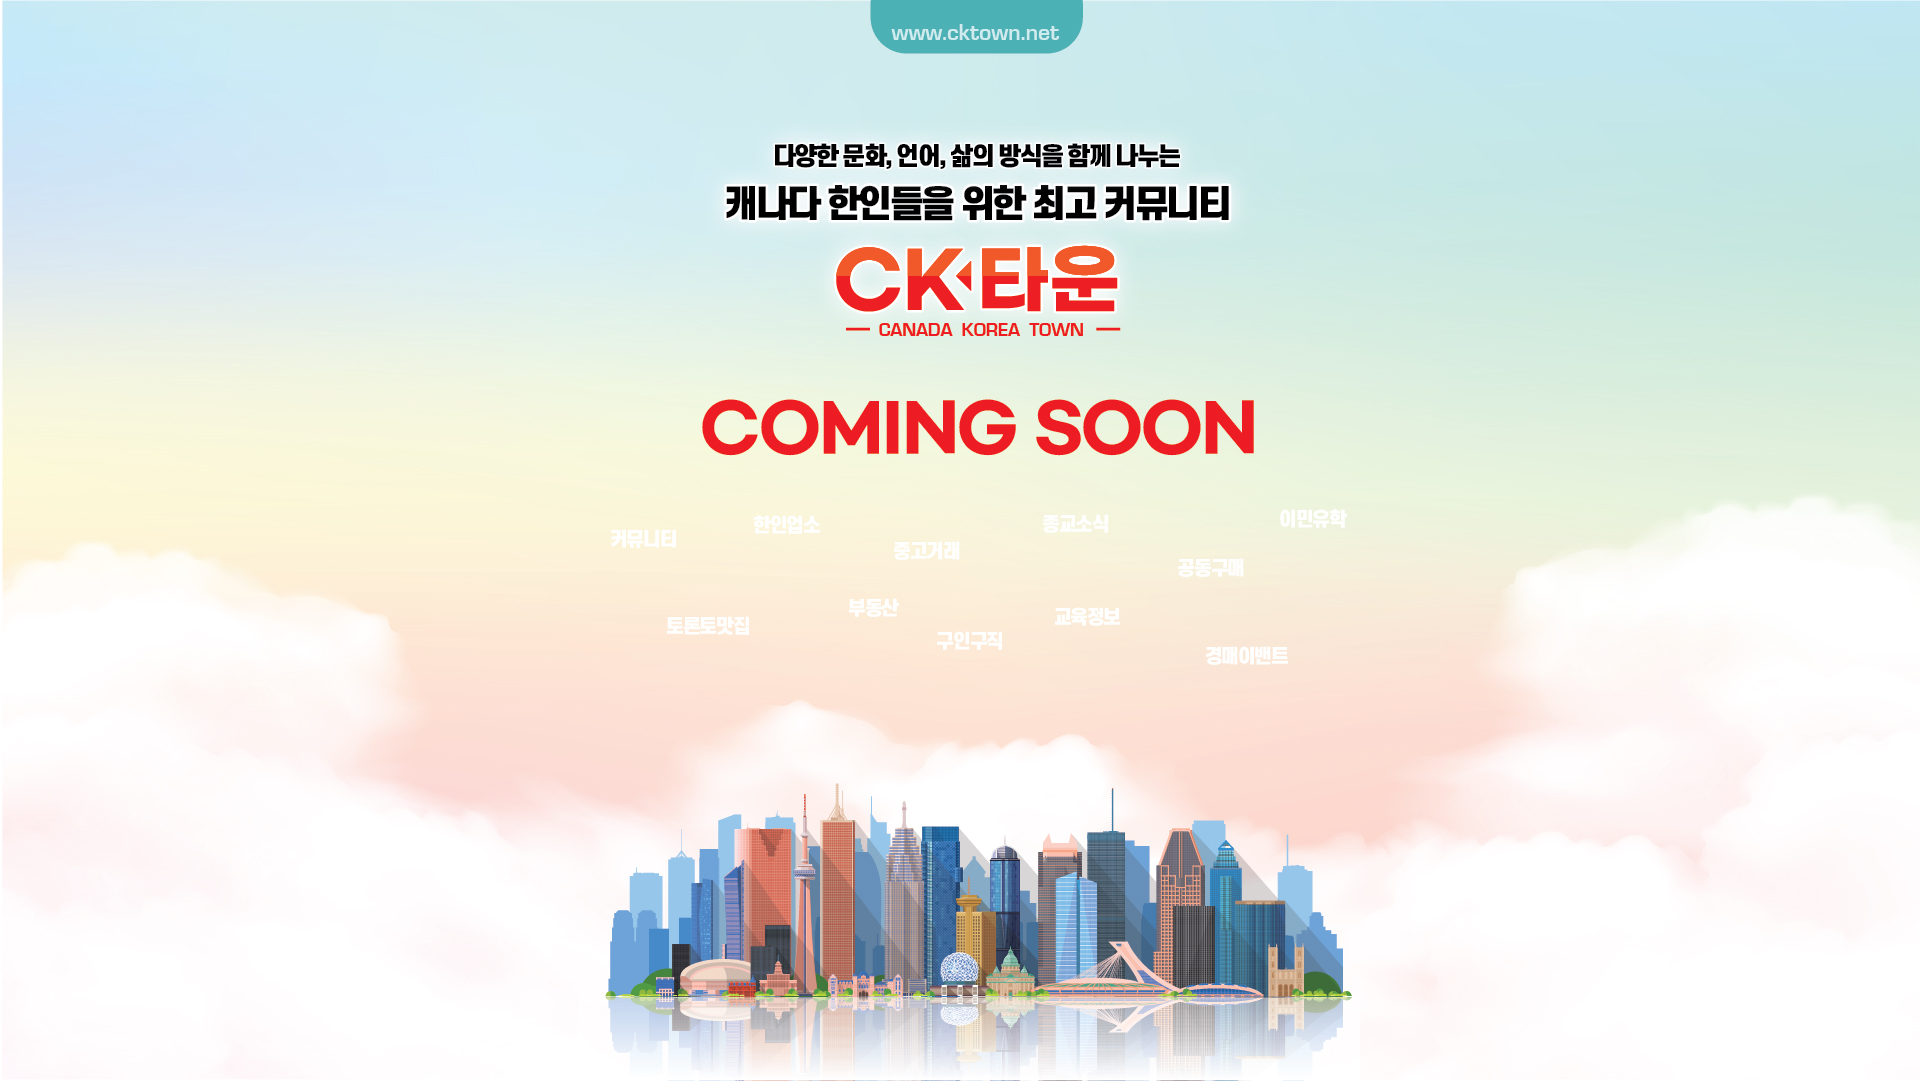
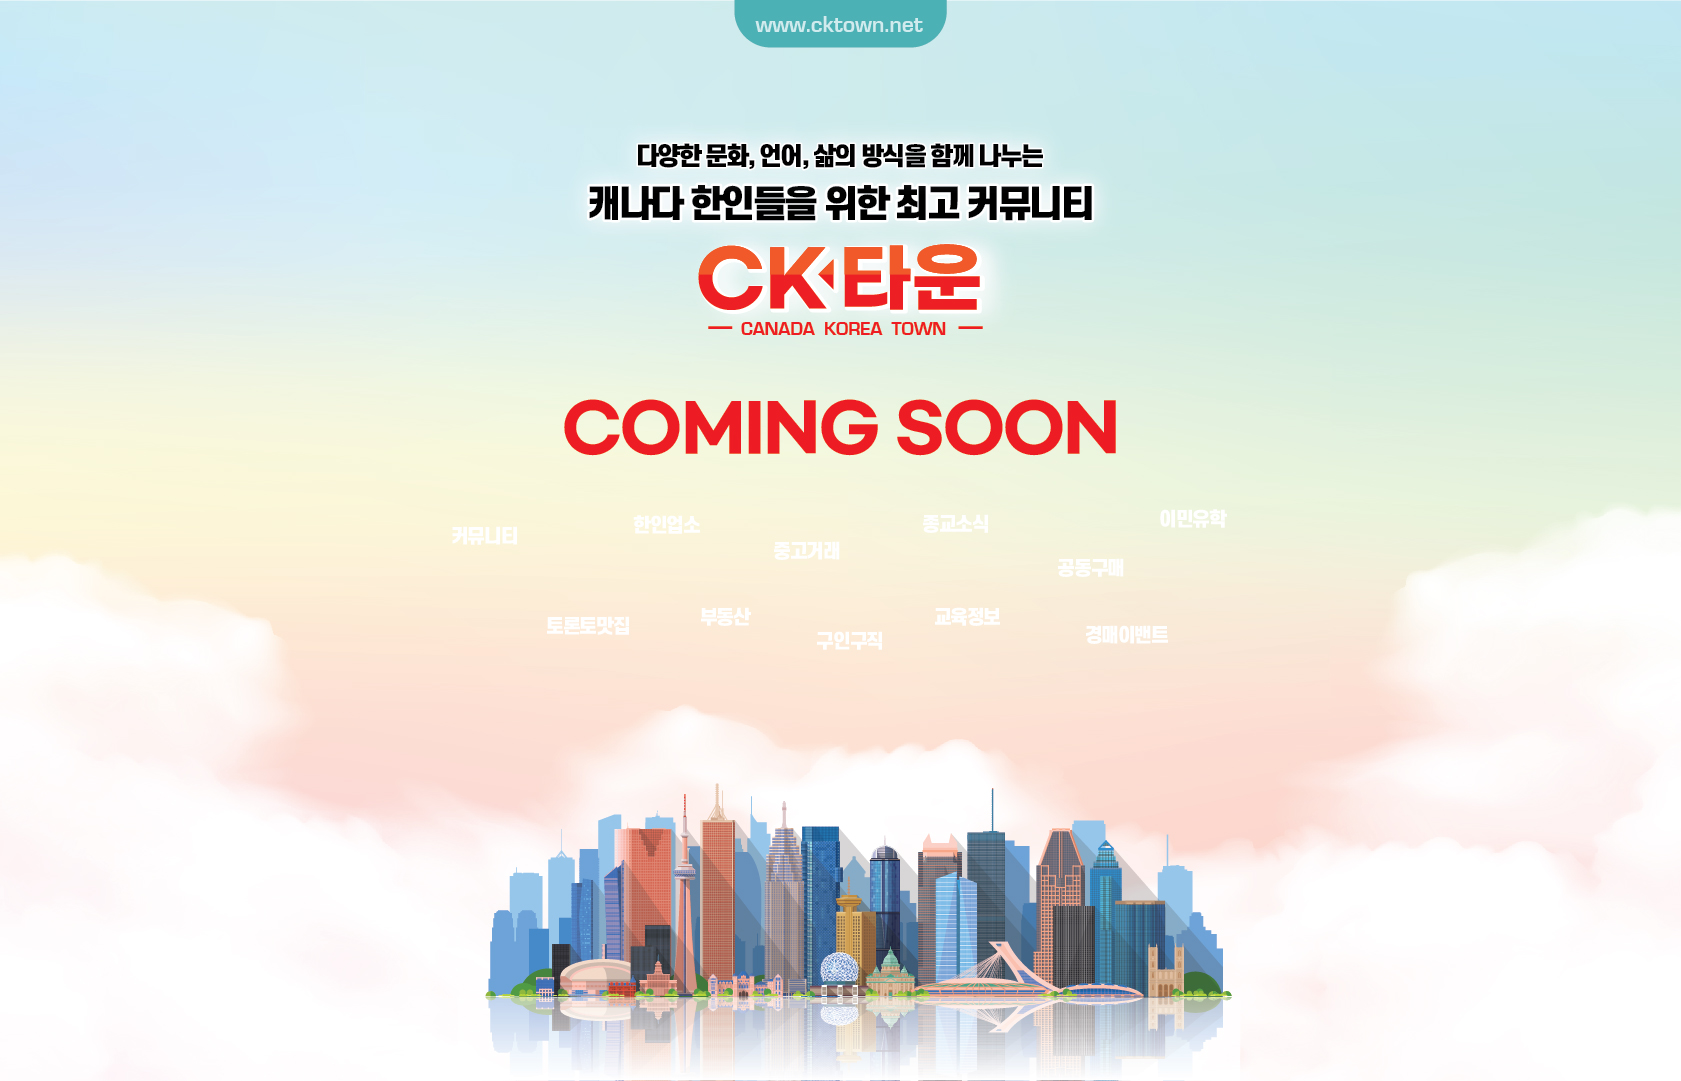
tablet size added

diff --git a/index.css b/index.css
@@ -1,9 +1,7 @@
 body {
-  margin: 0px;
-  padding: 0px;
-  display: flex;
-  justify-content: center;
-  align-items: center;
+  margin: 0 auto;
+  width: 1680px;
+  padding: 0;
 }
 
 .container {
@@ -14,16 +12,19 @@ body {
   display: flex;
   justify-content: center;
   align-items: center;
+  background-repeat: no-repeat;
 }
 
 @media (max-width: 1080px) {
   .container {
     background-image: url("main_02.jpg");
+    background-repeat: no-repeat;
   }
 }
 
 @media (max-width: 500px) {
   .container {
     background-image: url("web_01.jpg");
+    background-repeat: no-repeat;
   }
 }

diff --git a/index.html b/index.html
@@ -7,8 +7,6 @@
     <link rel="stylesheet" type="text/css" media="screen" href="index.css" />
   </head>
   <body>
-    <div class="container">
-      <div class="child"></div>
-    </div>
+    <div class="container"></div>
   </body>
 </html>
